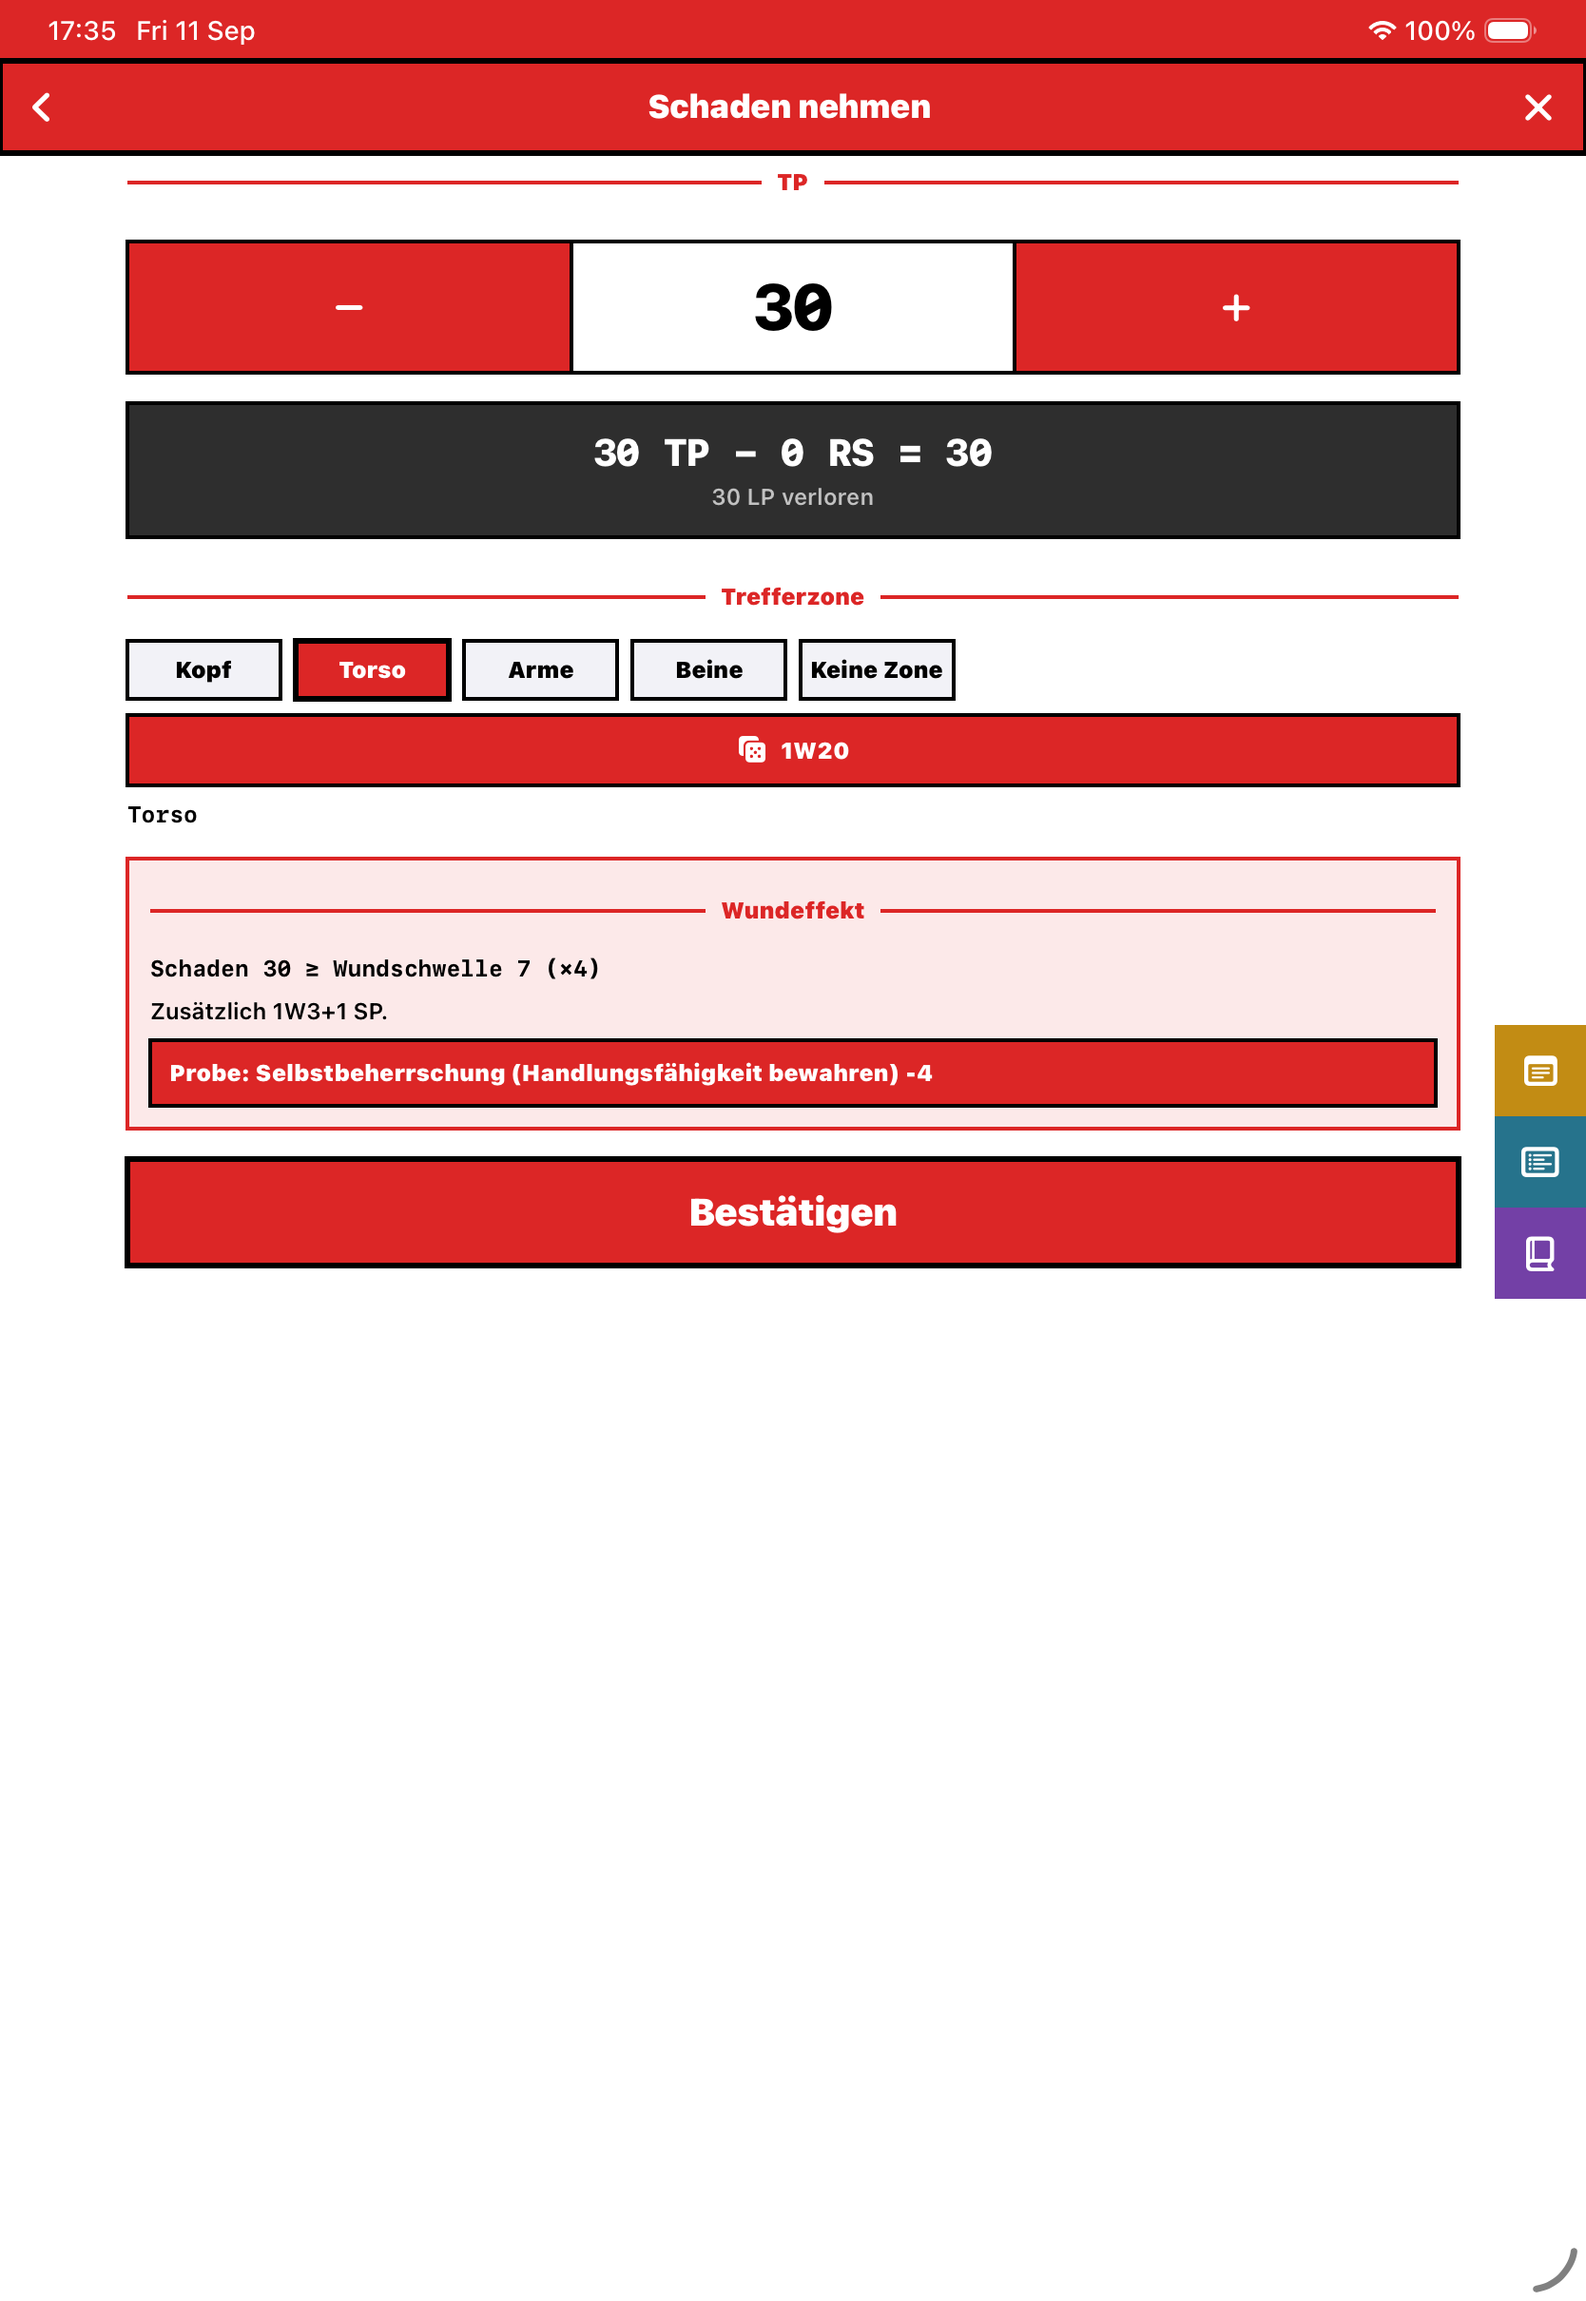
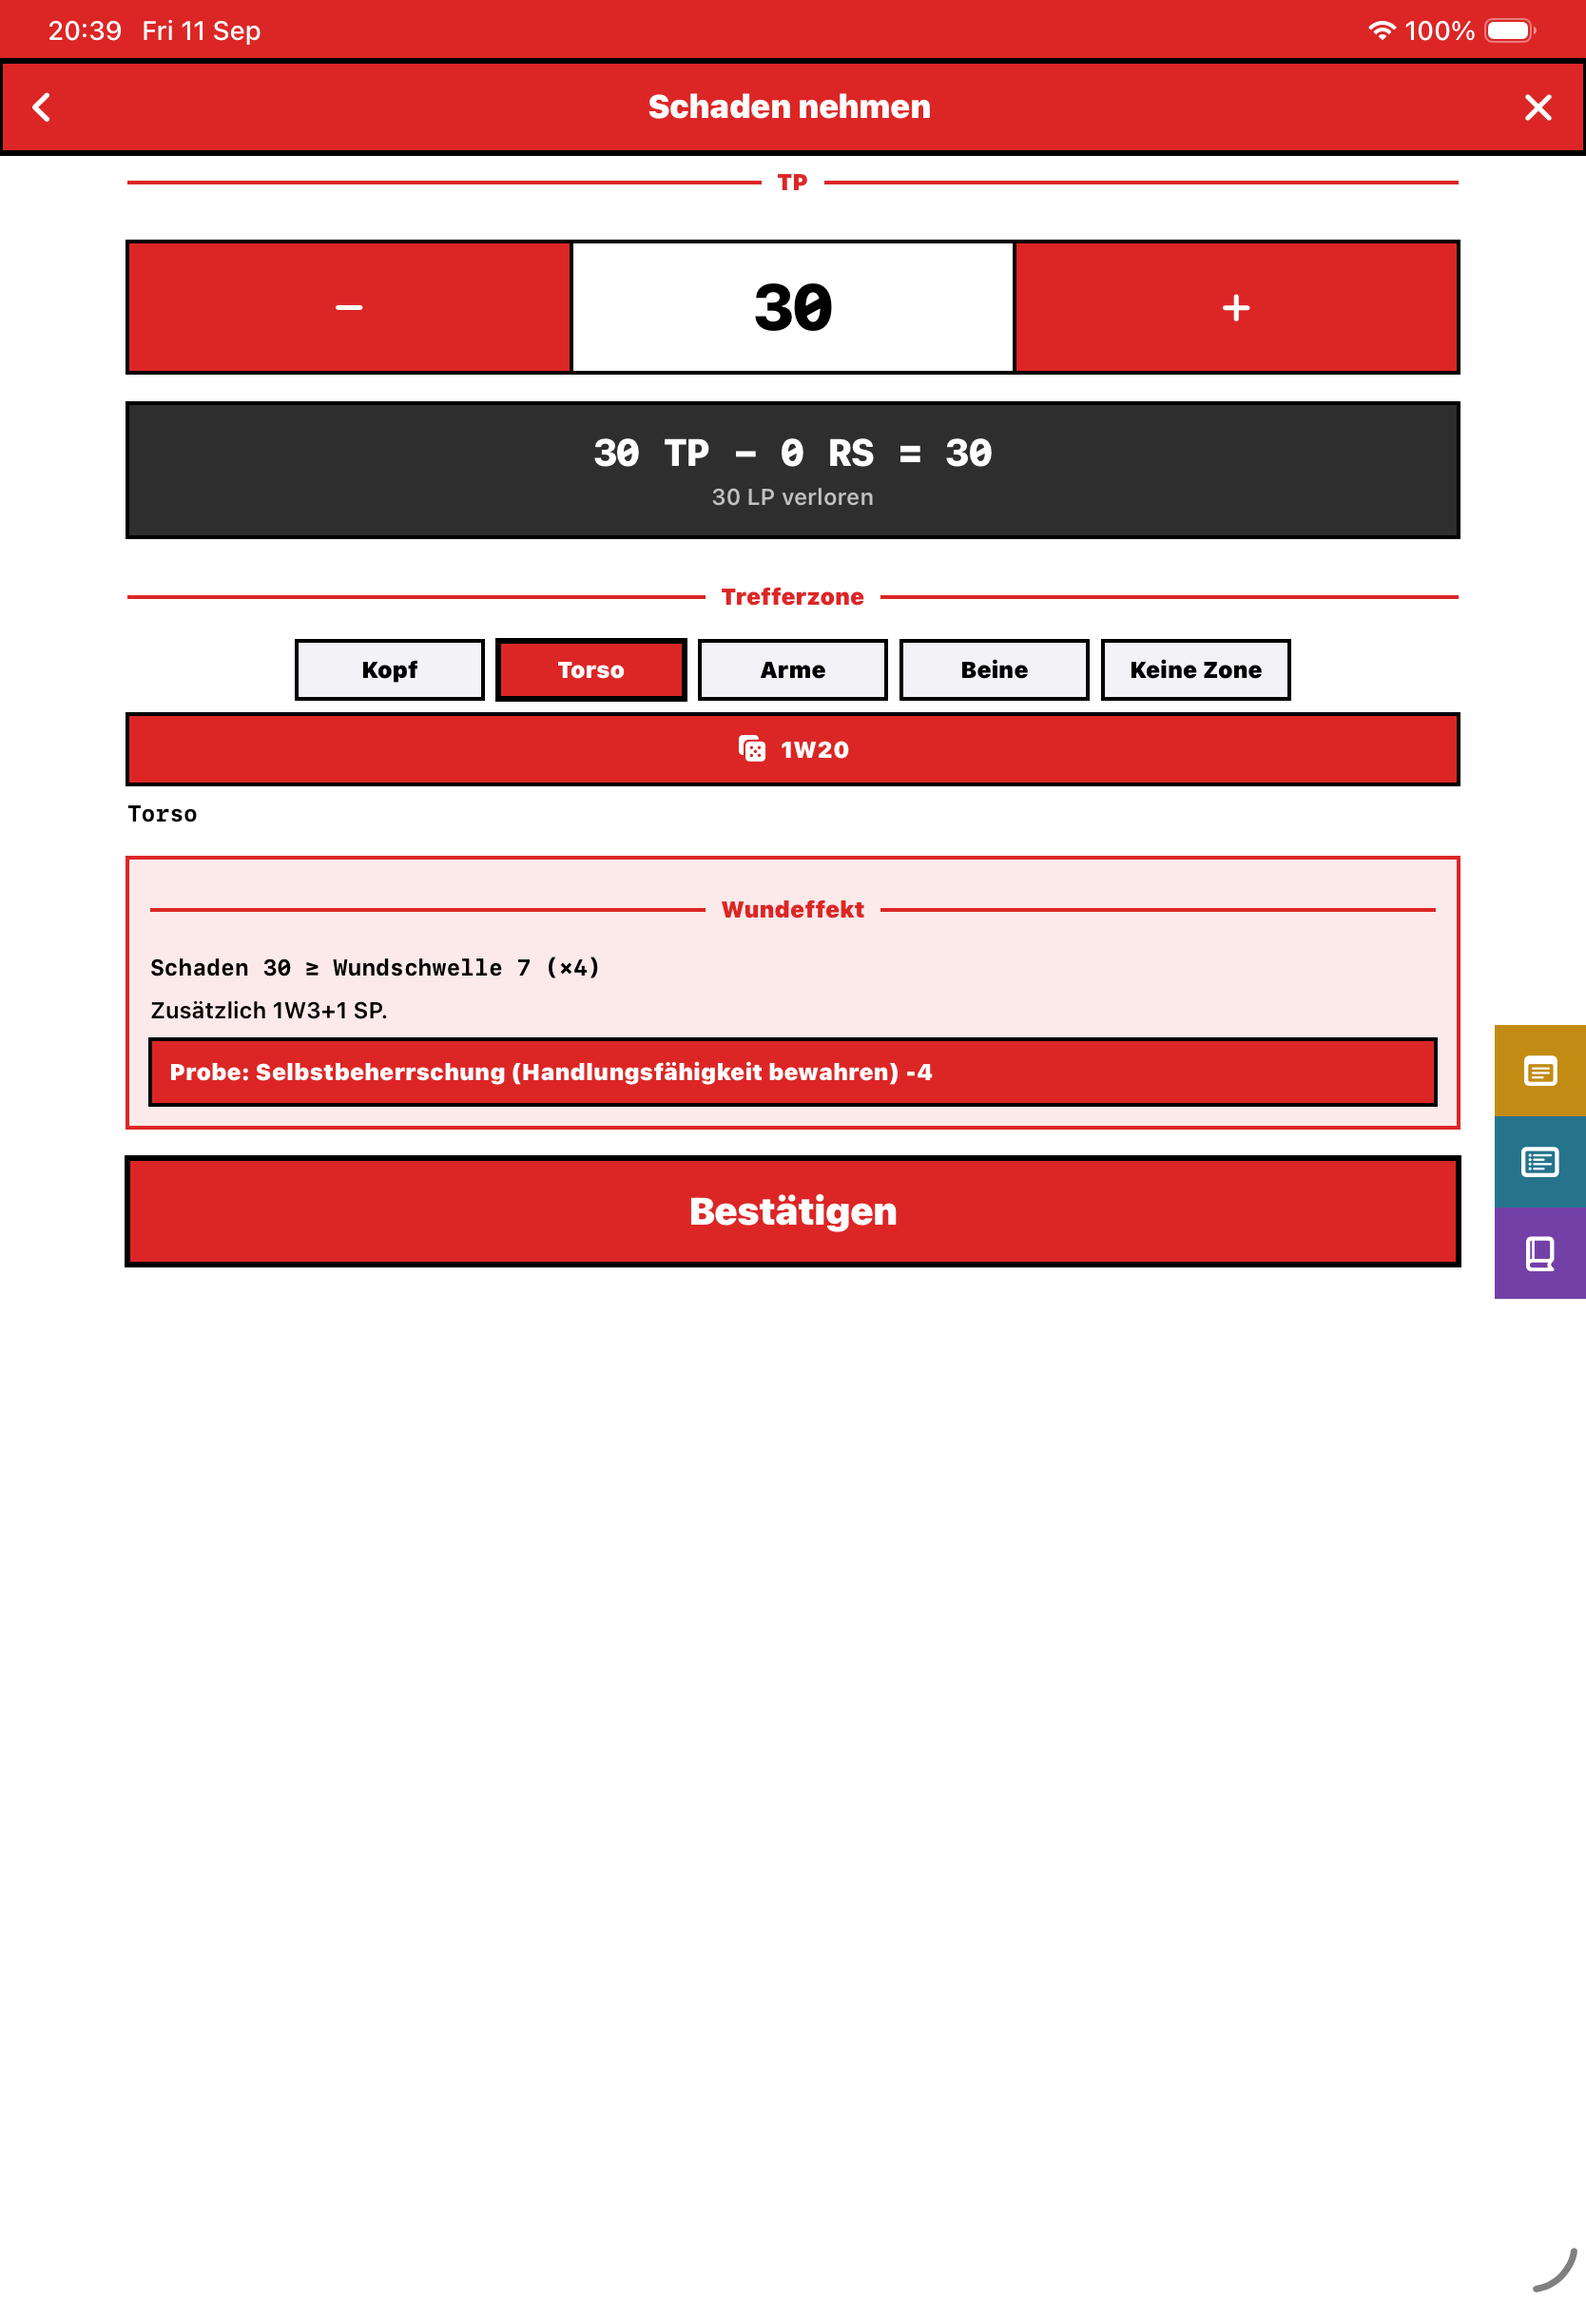
fix(combat): centre the Trefferzone chips
The adaptive grid made as many columns as the width allowed and packed the
five chips into the leftmost ones, leaving the row visibly off-centre —
132pt of space on the left against 664pt on the right.

Chips now size to their content in a centred row (310 / 311). Kept a
wrapping fallback via ViewThatFits: a non-humanoid plan can offer ten
zones, and five chips at their minimum width already overflow an iPhone
in portrait, which the grid had been quietly handling.

Extracts the chips into one @ViewBuilder so both branches cannot drift.

diff --git a/Hesindion/Views/CombatZonePicker.swift b/Hesindion/Views/CombatZonePicker.swift
@@ -23,29 +23,15 @@ struct CombatZonePicker: View {
         VStack(alignment: .leading, spacing: 8) {
             combatSectionLabel(L("trefferzone.section"))
 
-            LazyVGrid(columns: [GridItem(.adaptive(minimum: 78), spacing: 8)], spacing: 8) {
-                ForEach(zones) { zone in
-                    chip(isSelected: selection == zone, identifier: "combat.zone.\(zone.rawValue)") {
-                        selection = (selection == zone) ? nil : zone
-                    } label: {
-                        VStack(spacing: 2) {
-                            Text(L(zone.nameKey))
-                                .font(.system(.caption, weight: .black))
-                            if showsPenalty {
-                                Text("\(HitZoneModifiers.penalty(for: zone, hasSonderfertigkeit: hasSonderfertigkeit, targetIsSurprised: targetIsSurprised))")
-                                    .font(.system(.caption2, design: .monospaced, weight: .bold))
-                            }
-                        }
-                    }
-                }
-
-                chip(isSelected: selection == nil, identifier: "combat.zone.none") {
-                    selection = nil
-                } label: {
-                    Text(L("trefferzone.none"))
-                        .font(.system(.caption, weight: .black))
-                }
+            // Centred when the chips fit on one line (the iPad case, and any phone
+            // with the four humanoid zones); falls back to a wrapping grid when they
+            // do not — a non-humanoid plan can offer up to ten zones, and five chips
+            // at their minimum width already exceed an iPhone in portrait.
+            ViewThatFits(in: .horizontal) {
+                HStack(spacing: 8) { chips }
+                LazyVGrid(columns: [GridItem(.adaptive(minimum: 78), spacing: 8)], spacing: 8) { chips }
             }
+            .frame(maxWidth: .infinity)
             .fixedSize(horizontal: false, vertical: true)
 
             if showsSurprisedToggle {
@@ -77,6 +63,32 @@ struct CombatZonePicker: View {
 
     /// One chip, styled like the other single-select segmented pickers in combat
     /// (e.g. opponent weapon reach): accent fill + heavier border when selected.
+    /// The zone chips plus the "Keine Zone" reset, shared by both layout branches.
+    @ViewBuilder
+    private var chips: some View {
+        ForEach(zones) { zone in
+            chip(isSelected: selection == zone, identifier: "combat.zone.\(zone.rawValue)") {
+                selection = (selection == zone) ? nil : zone
+            } label: {
+                VStack(spacing: 2) {
+                    Text(L(zone.nameKey))
+                        .font(.system(.caption, weight: .black))
+                    if showsPenalty {
+                        Text("\(HitZoneModifiers.penalty(for: zone, hasSonderfertigkeit: hasSonderfertigkeit, targetIsSurprised: targetIsSurprised))")
+                            .font(.system(.caption2, design: .monospaced, weight: .bold))
+                    }
+                }
+            }
+        }
+
+        chip(isSelected: selection == nil, identifier: "combat.zone.none") {
+            selection = nil
+        } label: {
+            Text(L("trefferzone.none"))
+                .font(.system(.caption, weight: .black))
+        }
+    }
+
     private func chip(
         isSelected: Bool,
         identifier: String,
@@ -86,7 +98,8 @@ struct CombatZonePicker: View {
         Button(action: action) {
             label()
                 .foregroundStyle(isSelected ? .white : .primary)
-                .frame(maxWidth: .infinity)
+                .frame(minWidth: 78)
+                .padding(.horizontal, 10)
                 .padding(.vertical, 8)
                 // Fill the grid row so a one-line chip ("Keine Zone") matches the
                 // two-line zone chips, which carry a penalty beneath the name.
